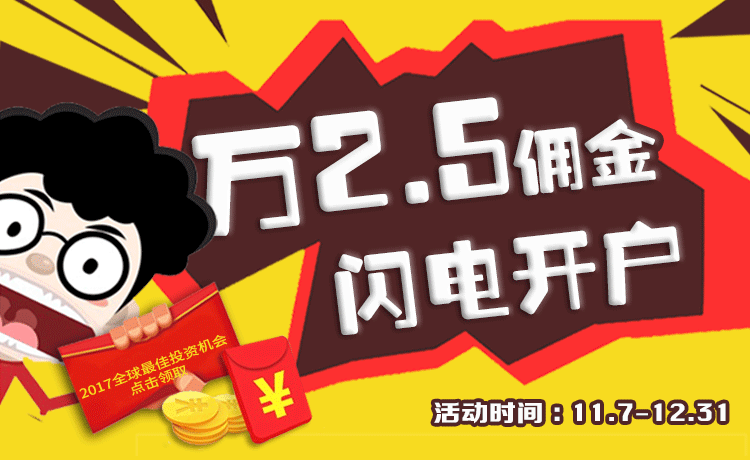
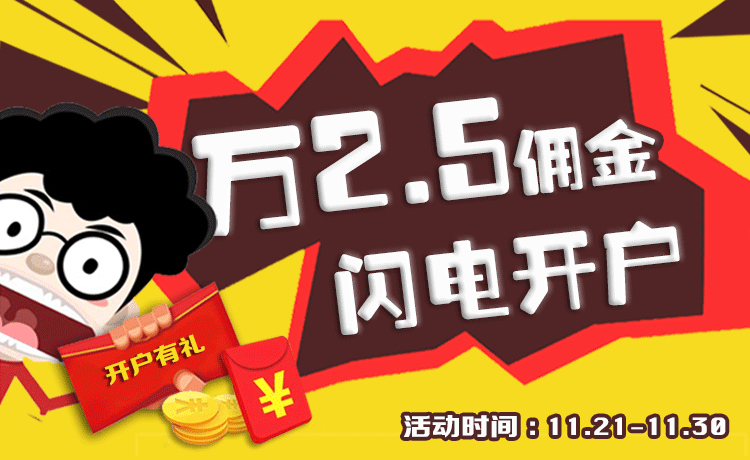
11.21

diff --git a/index.html b/index.html
@@ -1,89 +1,95 @@
 <!DOCTYPE html>
 <html lang="en">
 
-  <head>
+<head>
     <meta charset="UTF-8">
     <title>选股宝开户有礼</title>
-    <meta name="viewport" content="width=device-width, user-scalable=no, initial-scale=1.0, maximum-scale=1.0, minimum-scale=1.0">
-    <link rel="shortcut Icon" href="https://bao-cdn.wallstreetcn.com/static/32x32.png?ver=Nx3SvT__px1u2yY99oFgjCstmGng72M2y6qsSTFvHjs">
+    <meta name="viewport"
+          content="width=device-width, user-scalable=no, initial-scale=1.0, maximum-scale=1.0, minimum-scale=1.0">
+    <link rel="shortcut Icon"
+          href="https://bao-cdn.wallstreetcn.com/static/32x32.png?ver=Nx3SvT__px1u2yY99oFgjCstmGng72M2y6qsSTFvHjs">
     <link rel="stylesheet" href="./css/index.css">
-  </head>
+</head>
 
-  <body>
-    <div class="layout">
-
-      <img class="headimg" src="./images-wt/bg-head.png">
-
-      <!--活动介绍上半部分-->
-      <div class="container">
+<body>
+<div class="layout">
+    <img class="headimg" src="./images-wt/bg-head.png">
+    <!--活动介绍上半部分-->
+    <div class="container">
         <div class="inside">
-          <div class="wt-title"><strong>活动周期</strong></div>
-          <p class="wt-text">2016年11月21日-2016年12月20日</p>
-          <div class="wt-title"><strong>活动对象</strong></div>
-          <p class="wt-text text-s">《选股宝》新开户用户均可参与</p>
-          <div class="wt-title wt-title-l"><strong>开户礼品设置</strong></div>
-          <div class="up">
-            <p>
-              <strong>特别大奖</strong>：
-              <a href="http://activity.wallstreetcn.com/2016summit" target="_blank" class="blue">2017全球最佳投资机会</a>(点击了解详情)：华尔街见闻11.18日全球投资峰会5888至尊会员票
-            </p>
-            <p>
-              <strong>一重礼</strong>：开户即送20元手机流量
-            </p>
-            <p>
-              <strong>二重礼</strong>：成功交易再送30元手机流量
-            </p>
-            <p>
-              <strong>三重礼</strong>：万2.5佣金优惠、基金申购费1折起
-            </p>
-          </div>
-          <div class="button">
-            <a href="https://bao.wallstreetcn.com/web/trading-open-account" target="_blank" class="login" id="open-account">
-              <img src="./images-wt/bigbutton.png" alt="点击开户">
-            </a>
-          </div>
-          <!--活动说明下半部分开始-->
-          <div class="wt-title">
-            <strong>活动说明</strong>
-          </div>
-          <div class="up">
-            <p class="p1">1、“特别大奖”奖项说明：我们将在11月15日前开户成功的用户中抽取两名幸运用户，免费赠予“华尔街见闻”全球投资峰会5888至尊会员票</p>
-            <p><strong>活动地点 : </strong>上海外滩茂悦大酒店</p>
-            <p class="p1"><strong>活动详情 : </strong><a href="http://activity.wallstreetcn.com/2016summit/" class="blue wrap" target="_blank">点击查看</a></p>
-            <p class="p1">2、“开户有礼”活动仅限通过选股宝新开户的客户参与；每个新开户用户只能参与一次；</p>
-            <p class="p1">3、进入选股宝上端导航“我的主页”即可开户，开户如出现中断，下次再申请可使用原手机号登录，继续上次开户；</p>
-            <p class="p1">4、所赠奖品不得兑换现金；</p>
-            <p class="p1">5、奖品发放，开户成功后十个工作日内到账；</p>
-            <p class="p1">6、对本活动有任何意见，欢迎进入“我的主页”进行反馈</p>
-            <!--footer部分开始-->
-            <footer>
-              <div class="footer-img">
-                <img src="./images-wt/footer-0.png" alt="选股宝">
-              </div>
-              <p class="footer-text">选股宝保留本次活动最终解释权</p>
-            </footer>
-          </div>
+            <div class="wt-title"><strong>活动周期</strong></div>
+            <p class="wt-text">2016年11月21日-2016年11月30日</p>
+            <div class="wt-title"><strong>活动对象</strong></div>
+            <p class="wt-text text-s">《选股宝》新开户用户均可参与</p>
+            <div class="wt-title wt-title-l"><strong>开户礼品设置</strong></div>
+            <div class="up">
+                <!--<p>-->
+                    <!--<strong>特别大奖</strong>：-->
+                    <!--<a href="http://activity.wallstreetcn.com/2016summit" target="_blank" class="blue">2017全球最佳投资机会</a>(点击了解详情)：华尔街见闻11.18日全球投资峰会5888至尊会员票-->
+                <!--</p>-->
+                <p>
+                    <strong>一重礼</strong>：通过选股宝开户成功的用户，平安证券将赠送200MB流量（价值20元）
+                </p>
+                <p>
+                    <strong>二重礼</strong>：开户成功一个月内入金1万以上，且发生首笔交易，平安证券将赠送500MB流量（价值30元）
+                </p>
+                <p>
+                    <strong>三重礼</strong>：开户成功的用户享平安证券万2.5佣金优惠、基金申购费1折起
+                </p>
+            </div>
+            <div class="button">
+                <a href="https://bao.wallstreetcn.com/web/trading-open-account" target="_blank" class="login"
+                   id="open-account">
+                    <img src="./images-wt/bigbutton.png" alt="点击开户">
+                </a>
+            </div>
+            <!--活动说明下半部分开始-->
+            <div class="wt-title">
+                <strong>活动说明</strong>
+            </div>
+            <div class="up">
+                <p class="p1">1、"开户有礼"活动仅限通过选股宝新开户的用户参与；每个新开户用户只有一次参与机会；</p>
+                <p class="p1">2、进入选股宝上端导航“我的主页”即可开户，开户如出现中断，下次再申请可使用原手机号登录，继续上次开户；</p>
+                <p class="p1">3、所赠奖品不得兑换现金；</p>
+                <p class="p1">4、奖品发放：流量充值类礼品在用户开户成功后五个工作日内到账，开户佣金优惠开户即享；</p>
+                <p class="p1">5、感谢平安证券提供流量充值礼品赞助，如有疑问请向平安证券进行资询；</p>
+                <p class="p1">6、对本活动有任何意见，欢迎进入“我的主页”进行反馈。</p>
+                <!--footer部分开始-->
+                <footer>
+                    <div class="footer-img">
+                        <img src="./images-wt/footer-0.png" alt="选股宝">
+                    </div>
+                    <p class="footer-text">本次活动最终解释权归选股宝所有</p>
+                </footer>
+            </div>
         </div>
-      </div>
     </div>
+</div>
 
-    <script>
-      window.onload = function() {
-        if(location.href.indexOf('xgb') === -1) {
-          document.getElementById('open-account').setAttribute('href', 'https://bao.wallstreetcn.com/static/app.html?from=openAccount')
+<script>
+    window.onload = function () {
+        if (location.href.indexOf('xgb') === -1) {
+            document.getElementById('open-account').setAttribute('href', 'https://bao.wallstreetcn.com/static/app.html?from=openAccount')
         }
-      }
-    </script>
+    }
+</script>
 
-    <script>
-      (function(i,s,o,g,r,a,m){i['GoogleAnalyticsObject']=r;i[r]=i[r]||function(){
-      (i[r].q=i[r].q||[]).push(arguments)},i[r].l=1*new Date();a=s.createElement(o),
-      m=s.getElementsByTagName(o)[0];a.async=1;a.src=g;m.parentNode.insertBefore(a,m)
-      })(window,document,'script','https://www.google-analytics.com/analytics.js','ga');
+<script>
+    (function (i, s, o, g, r, a, m) {
+        i['GoogleAnalyticsObject'] = r;
+        i[r] = i[r] || function () {
+                (i[r].q = i[r].q || []).push(arguments)
+            }, i[r].l = 1 * new Date();
+        a = s.createElement(o),
+            m = s.getElementsByTagName(o)[0];
+        a.async = 1;
+        a.src = g;
+        m.parentNode.insertBefore(a, m)
+    })(window, document, 'script', 'https://www.google-analytics.com/analytics.js', 'ga');
 
-      ga('create', 'UA-64451198-1', 'auto');
-      ga('send', 'pageview');
-    </script>
-  </body>
+    ga('create', 'UA-64451198-1', 'auto');
+    ga('send', 'pageview');
+</script>
+</body>
 
 </html>

diff --git a/css/index.css b/css/index.css
@@ -162,7 +162,7 @@ body, html{
 }
 /*foot图片和文字*/
 footer{
-    margin-top: 0.2rem;
+    margin-top: 0.3rem;
 }
 .up .footer-img img{
     margin:0 auto ;
